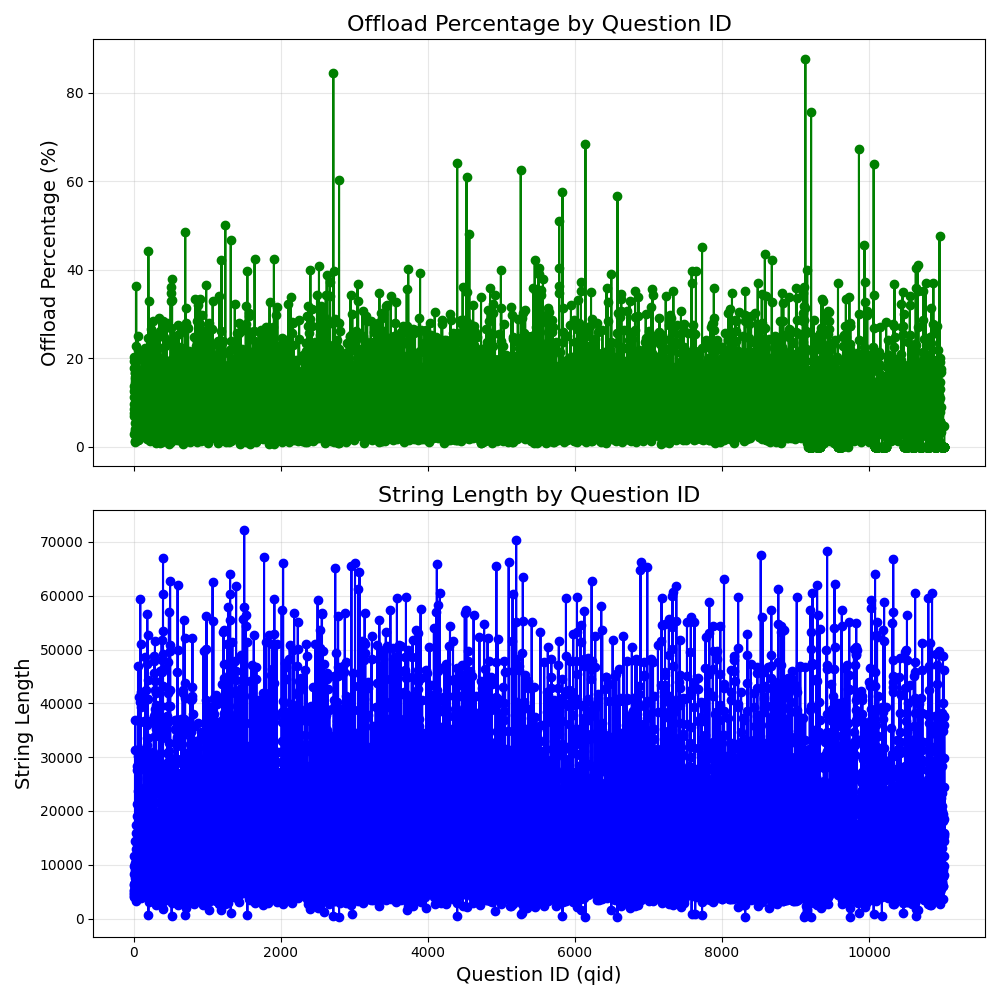
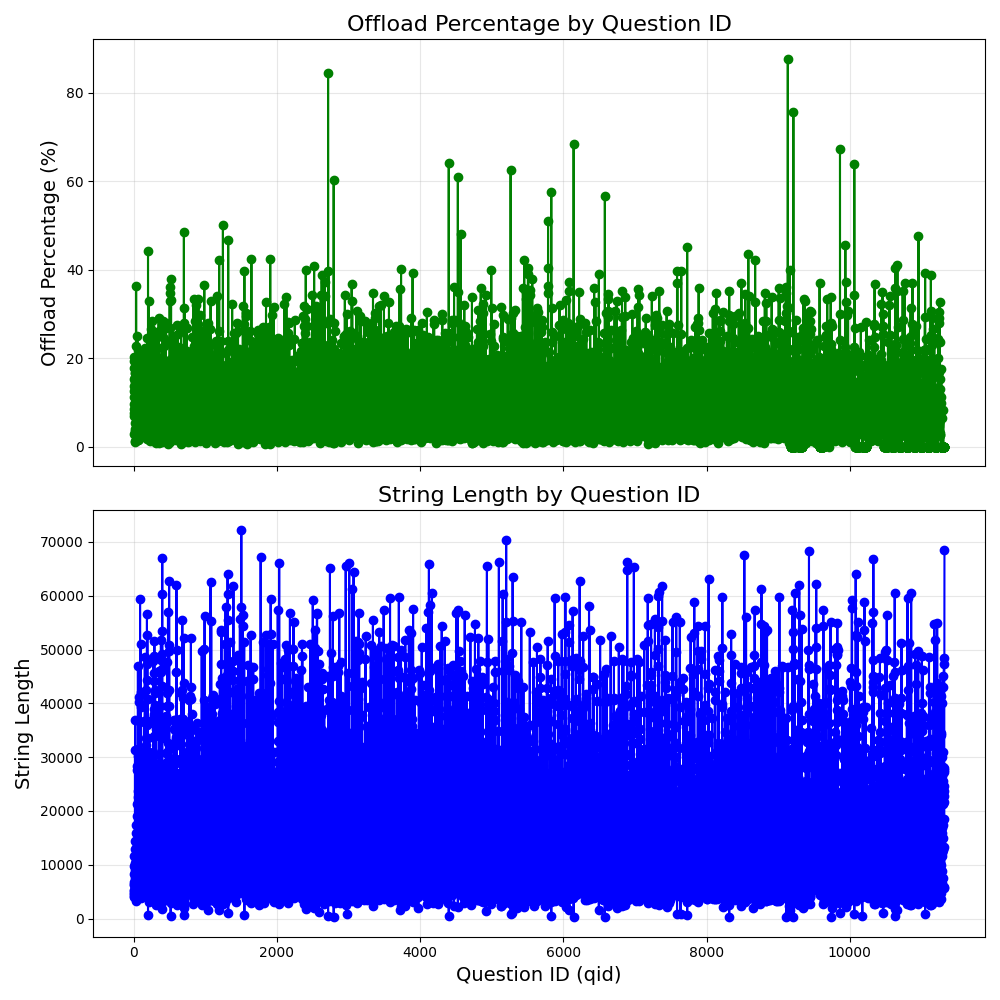
prompt changes

diff --git a/study_offloading.py b/study_offloading.py
@@ -53,64 +53,70 @@ def main():
     # json_file = "/home/ya255/projects/SpeculativeReasoning/log_traces/specreason_test_2_wgrpo/meta-llama__Llama-2-7b-chat-hf/samples_aime24_nofigures_2025-04-10T16-10-38.564770.jsonl"
     # json_file = "/home/ya255/projects/SpeculativeReasoning/log_traces/specreason_sft/meta-llama__Llama-2-7b-chat-hf/samples_aime24_nofigures_2025-04-10T20-10-31.019388.jsonl"
     # json_file = "/home/ya255/projects/SpeculativeReasoning/log_traces/specreason_sft/meta-llama__Llama-2-7b-chat-hf/samples_aime24_nofigures_2025-04-10T22-11-36.603514.jsonl"
-    json_file = "/home/ya255/projects/SpeculativeReasoning/log_traces/new_sft_15bonly/meta-llama__Llama-2-7b-chat-hf/samples_aime24_nofigures_2025-04-11T11-03-26.407775.jsonl"
-    with open(json_file, "r") as f:
-        lines = f.readlines()
-        data = [json.loads(line) for line in lines]
+    # json_file = "/home/ya255/projects/SpeculativeReasoning/log_traces/new_sft_15bonly/meta-llama__Llama-2-7b-chat-hf/samples_aime24_nofigures_2025-04-11T11-03-26.407775.jsonl"
+    json_folder = "/home/ya255/projects/SpeculativeReasoning/log_traces/old_sft_grpo_15bonly/meta-llama__Llama-2-7b-chat-hf"
+    # list all files with prefix samples_
+    print(f"Investigating json files in {json_folder}")
+    json_files = [f for f in os.listdir(json_folder) if f.startswith("samples_") and f.endswith(".jsonl")]
+    for json_file in json_files:
+        json_file = os.path.join(json_folder, json_file)
+        with open(json_file, "r") as f:
+            lines = f.readlines()
+            data = [json.loads(line) for line in lines]
 
-    # Create a 5×6 figure (to accommodate 30 items)
-    fig, axs = plt.subplots(5, 6, figsize=(18, 10))
-    axs = axs.flatten()  # Flatten to iterate easily
+        # Create a 5×6 figure (to accommodate 30 items)
+        fig, axs = plt.subplots(5, 6, figsize=(18, 10))
+        axs = axs.flatten()  # Flatten to iterate easily
 
-    coverage_list = []
-    # 2) Iterate over each data item (up to 30)
-    for i, item in enumerate(data):
-        if i >= 30:
-            break  # just in case there are more than 30 items
+        coverage_list = []
+        # 2) Iterate over each data item (up to 30)
+        for i, item in enumerate(data):
+            if i >= 30:
+                break  # just in case there are more than 30 items
 
-        ax = axs[i]
+            ax = axs[i]
 
-        # Example: assume the text of interest is in data[i]['resps'][0][0]
-        # Adjust indexing if your data is different
-        text = item['resps'][0][0] if item['resps'] else ""
+            # Example: assume the text of interest is in data[i]['resps'][0][0]
+            # Adjust indexing if your data is different
+            text = item['resps'][0][0] if item['resps'] else ""
 
-        # Skip if no text
-        if not text:
-            ax.set_title(f"Example {i} (no text)")
-            ax.set_xticks([])
+            # Skip if no text
+            if not text:
+                ax.set_title(f"Example {i} (no text)")
+                ax.set_xticks([])
+                ax.set_yticks([])
+                continue
+
+            # 3) Compute the mask
+            mask = get_bigmodel_mask(text)
+
+            if len(mask) == 0:
+                ax.set_title(f"Example {i} (empty mask)")
+                ax.set_xticks([])
+                ax.set_yticks([])
+                continue
+
+            # 4) Prepare x and y for step plot
+            x = [k / len(mask) for k in range(len(mask))]
+            y = mask  # 0/1 list
+
+            # 5) Plot
+            ax.step(x, y, where='post')
+            ax.set_ylim(-0.1, 1.1)  # only 0 or 1
+            ax.set_xlim(0, 1)
             ax.set_yticks([])
-            continue
 
-        # 3) Compute the mask
-        mask = get_bigmodel_mask(text)
+            # 6) Add percentage label to the title
+            coverage = 100.0 * sum(mask) / len(mask)
+            coverage_list.append(coverage)
+            ax.set_title(f"Example {i} ({coverage:.1f}% covered)")
 
-        if len(mask) == 0:
-            ax.set_title(f"Example {i} (empty mask)")
-            ax.set_xticks([])
-            ax.set_yticks([])
-            continue
-
-        # 4) Prepare x and y for step plot
-        x = [k / len(mask) for k in range(len(mask))]
-        y = mask  # 0/1 list
-
-        # 5) Plot
-        ax.step(x, y, where='post')
-        ax.set_ylim(-0.1, 1.1)  # only 0 or 1
-        ax.set_xlim(0, 1)
-        ax.set_yticks([])
-
-        # 6) Add percentage label to the title
-        coverage = 100.0 * sum(mask) / len(mask)
-        coverage_list.append(coverage)
-        ax.set_title(f"Example {i} ({coverage:.1f}% covered)")
-
-    # Layout and save
-    plt.tight_layout()
-    plt.savefig("aime24_behavior.pdf")
-    plt.clf()
-    plt.close()
-    print(f"Average coverage: {sum(coverage_list) / len(coverage_list):.2f}% \t std: {np.std(coverage_list):.2f}% \t min: {min(coverage_list):.2f}%\t max: {max(coverage_list):.2f}%")
+        # Layout and save
+        plt.tight_layout()
+        plt.savefig("aime24_behavior.pdf")
+        plt.clf()
+        plt.close()
+        print(f"Average coverage: {sum(coverage_list) / len(coverage_list):.2f}% \t std: {np.std(coverage_list):.2f}% \t min: {min(coverage_list):.2f}%\t max: {max(coverage_list):.2f}%")
 
 if __name__ == "__main__":
     main()

diff --git a/modes/speculative_reasoning.py b/modes/speculative_reasoning.py
@@ -51,13 +51,14 @@ def run_speculative_reasoning_flow(
 
     model_think_prefix = "<think>\n"
     model_think_suffix = "</think>"
-    if "｜" not in question:
-        base_prompt = (
-            f"<｜begin▁of▁sentence｜><｜User｜>{question}{terminating_string} You always use <bigmodel>...</bigmodel> to mark parts of the reasoning process that are important.<｜Assistant｜>\n{model_think_prefix}"
-        )
-    else:
-        base_prompt = f"{question}{terminating_string}\n{model_think_prefix}"
-
+    bigmodel_str = "You always use <bigmodel>...</bigmodel> to mark parts of the reasoning process that are important."
+    base_prompt = (
+        f"<｜begin▁of▁sentence｜><｜User｜>{question}\n"
+        f"{terminating_string} "
+        f"{bigmodel_str}"
+        f"<｜Assistant｜>\n"
+        f"{model_think_prefix}"
+    )
     current_text = base_prompt
     # keep this small but not too small, it becomes the 'batch size' for batch small model generation on stop command
     numtok_bigmodel = 32
@@ -100,7 +101,7 @@ def run_speculative_reasoning_flow(
                 # and return the current text
                 # print("Bigmodel invoked post <bigmodel>")
                 generation_resps, generation_tokens, latency = batched_generate_text_with_tokens_vllm(
-                    prompts=[current_text.replace("<bigmodel>", "").replace("</bigmodel>", "")],
+                    prompts=[current_text.replace("<bigmodel>", "").replace("</bigmodel>", "").replace(bigmodel_str, "")],
                     port=big_model_port,
                     temperature=temperature,
                     max_tokens=numtok_bigmodel,

diff --git a/modes/small_model_only.py b/modes/small_model_only.py
@@ -44,11 +44,16 @@ def run_smallmodel_flow(
     # Scaling is 0 indexed, dont ask me why lol
     for sequential_iter in range(sequential_scale + 1):
         if sequential_iter == 0:
-            # Basic prompt
-            if "｜" not in question:
-                prompt = f"<｜begin▁of▁sentence｜><｜User｜>{question}{terminating_string}<｜Assistant｜>\n{model_think_prefix}"
+            if "SpecR" in small_model:
+                prompt = (
+                    f"<｜begin▁of▁sentence｜><｜User｜>{question}\n"
+                    f"{terminating_string} "
+                    f"{bigmodel_str}"
+                    f"<｜Assistant｜>\n"
+                    f"{model_think_prefix}"
+                )
             else:
-                prompt = f"{question}{terminating_string}\n{model_think_prefix}"
+                prompt = f"<｜begin▁of▁sentence｜><｜User｜>{question}{terminating_string}\n<｜Assistant｜>\n{model_think_prefix}"
 
         if test_logging:
             print("Sending request to small model")

diff --git a/annotated_dataset/data_generator.py b/annotated_dataset/data_generator.py
@@ -292,7 +292,7 @@ def process_batch_in_parallel(batch, top_percent=0.4, llm_top_k=None):
 
 ds = load_dataset("open-r1/OpenR1-Math-220k", "default")
 
-ds_small = ds["train"].select(range(25000))
+ds_small = ds["train"].select(range(55000))
 
 processed_indices = set()
 if os.path.exists("processed_ids.txt"):
